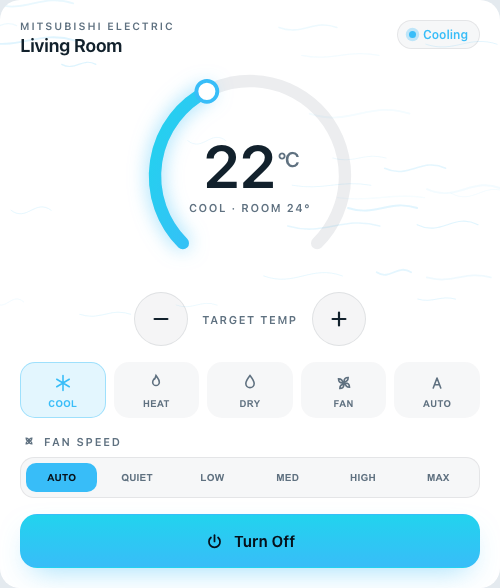
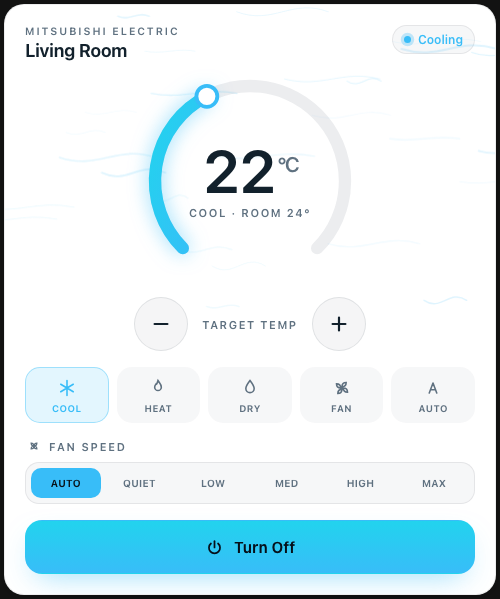
Match device-tile card chrome and defer to the Homey font
The card is now the standard background color with a hairline border
and soft shadow, like device tiles — the on state still goes white.
Font-family moves to html behind --homey-font-family so the
dashboard's injected font rules take precedence, and buttons inherit
it. Body gets 4px padding so the shadow isn't clipped; heights are
now full 599, mini 263.

diff --git a/widgets/ac-control-mini/public/index.html b/widgets/ac-control-mini/public/index.html
@@ -54,18 +54,21 @@
 
   * { box-sizing: border-box; }
   html, body { margin: 0; padding: 0; background: transparent; overflow: hidden; overscroll-behavior: none; }
+  /* font on html so Homey's injected body/class font rules win when present */
+  html { font-family: var(--homey-font-family, system-ui, -apple-system, "Segoe UI", Roboto, sans-serif); }
   body {
     color: var(--text);
-    font-family: system-ui, -apple-system, "Segoe UI", Roboto, sans-serif;
     -webkit-font-smoothing: antialiased;
     font-size: var(--homey-font-size-small, 14px);
+    padding: 4px; /* room for the card's shadow */
     user-select: none;
     -webkit-user-select: none;
   }
+  button { font-family: inherit; }
 
   /* the widget runs transparent and paints its own card, matching Homey
-     device tiles: off is a translucent grey barely off the dashboard
-     background; on turns white (both themes) like an active tile */
+     device tiles: the standard background color with a hairline border and
+     soft shadow; on turns white (both themes) like an active tile */
   .widget {
     width: 100%;
     border-radius: var(--homey-border-radius-default, 20px);
@@ -73,7 +76,9 @@
     position: relative;
     overflow: hidden;
     color: var(--text); /* re-resolve inside the on/off palette override */
-    background: color-mix(in srgb, var(--ink) 6%, transparent);
+    background: var(--surface-1);
+    border: 1px solid var(--card-edge);
+    box-shadow: 0 2px 5px -2px rgba(0,0,0,.22);
     transition: background .5s ease;
   }
   .widget[data-on="false"] {

diff --git a/widgets/ac-control/public/index.html b/widgets/ac-control/public/index.html
@@ -57,18 +57,21 @@
 
   * { box-sizing: border-box; }
   html, body { margin: 0; padding: 0; background: transparent; overflow: hidden; overscroll-behavior: none; }
+  /* font on html so Homey's injected body/class font rules win when present */
+  html { font-family: var(--homey-font-family, system-ui, -apple-system, "Segoe UI", Roboto, sans-serif); }
   body {
     color: var(--text);
-    font-family: system-ui, -apple-system, "Segoe UI", Roboto, sans-serif;
     -webkit-font-smoothing: antialiased;
     font-size: var(--homey-font-size-small, 14px);
+    padding: 4px; /* room for the card's shadow */
     user-select: none;
     -webkit-user-select: none;
   }
+  button { font-family: inherit; }
 
   /* the widget runs transparent and paints its own card, matching Homey
-     device tiles: off is a translucent grey barely off the dashboard
-     background; on turns white (both themes) like an active tile */
+     device tiles: the standard background color with a hairline border and
+     soft shadow; on turns white (both themes) like an active tile */
   .widget {
     width: 100%;
     border-radius: var(--homey-border-radius-default, 20px);
@@ -76,7 +79,9 @@
     position: relative;
     overflow: hidden;
     color: var(--text); /* re-resolve inside the on/off palette override */
-    background: color-mix(in srgb, var(--ink) 6%, transparent);
+    background: var(--surface-1);
+    border: 1px solid var(--card-edge);
+    box-shadow: 0 2px 5px -2px rgba(0,0,0,.22);
     transition: background .5s ease;
   }
   .widget[data-on="false"] {
